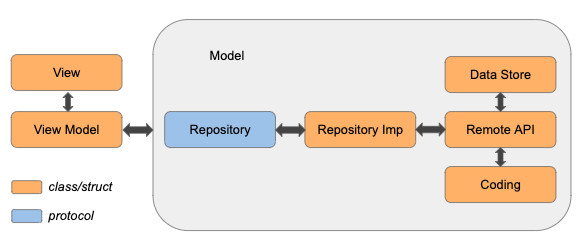
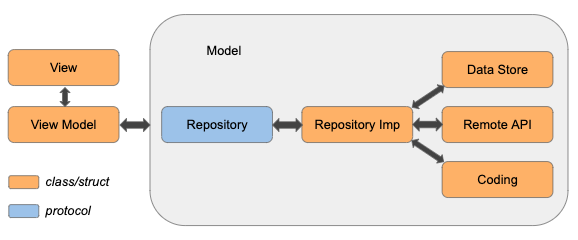
Correct the architecture image

diff --git a/README.md b/README.md
@@ -2,7 +2,7 @@
 Movie Devotee searches IMDb database for movies and TV shows.
 ## Features
 * Seach for movies and TV shows by title
-* View movie details
+* View details of movies
 * View recently searched items
 \
 ![Screenshot](Images/operating.gif)
